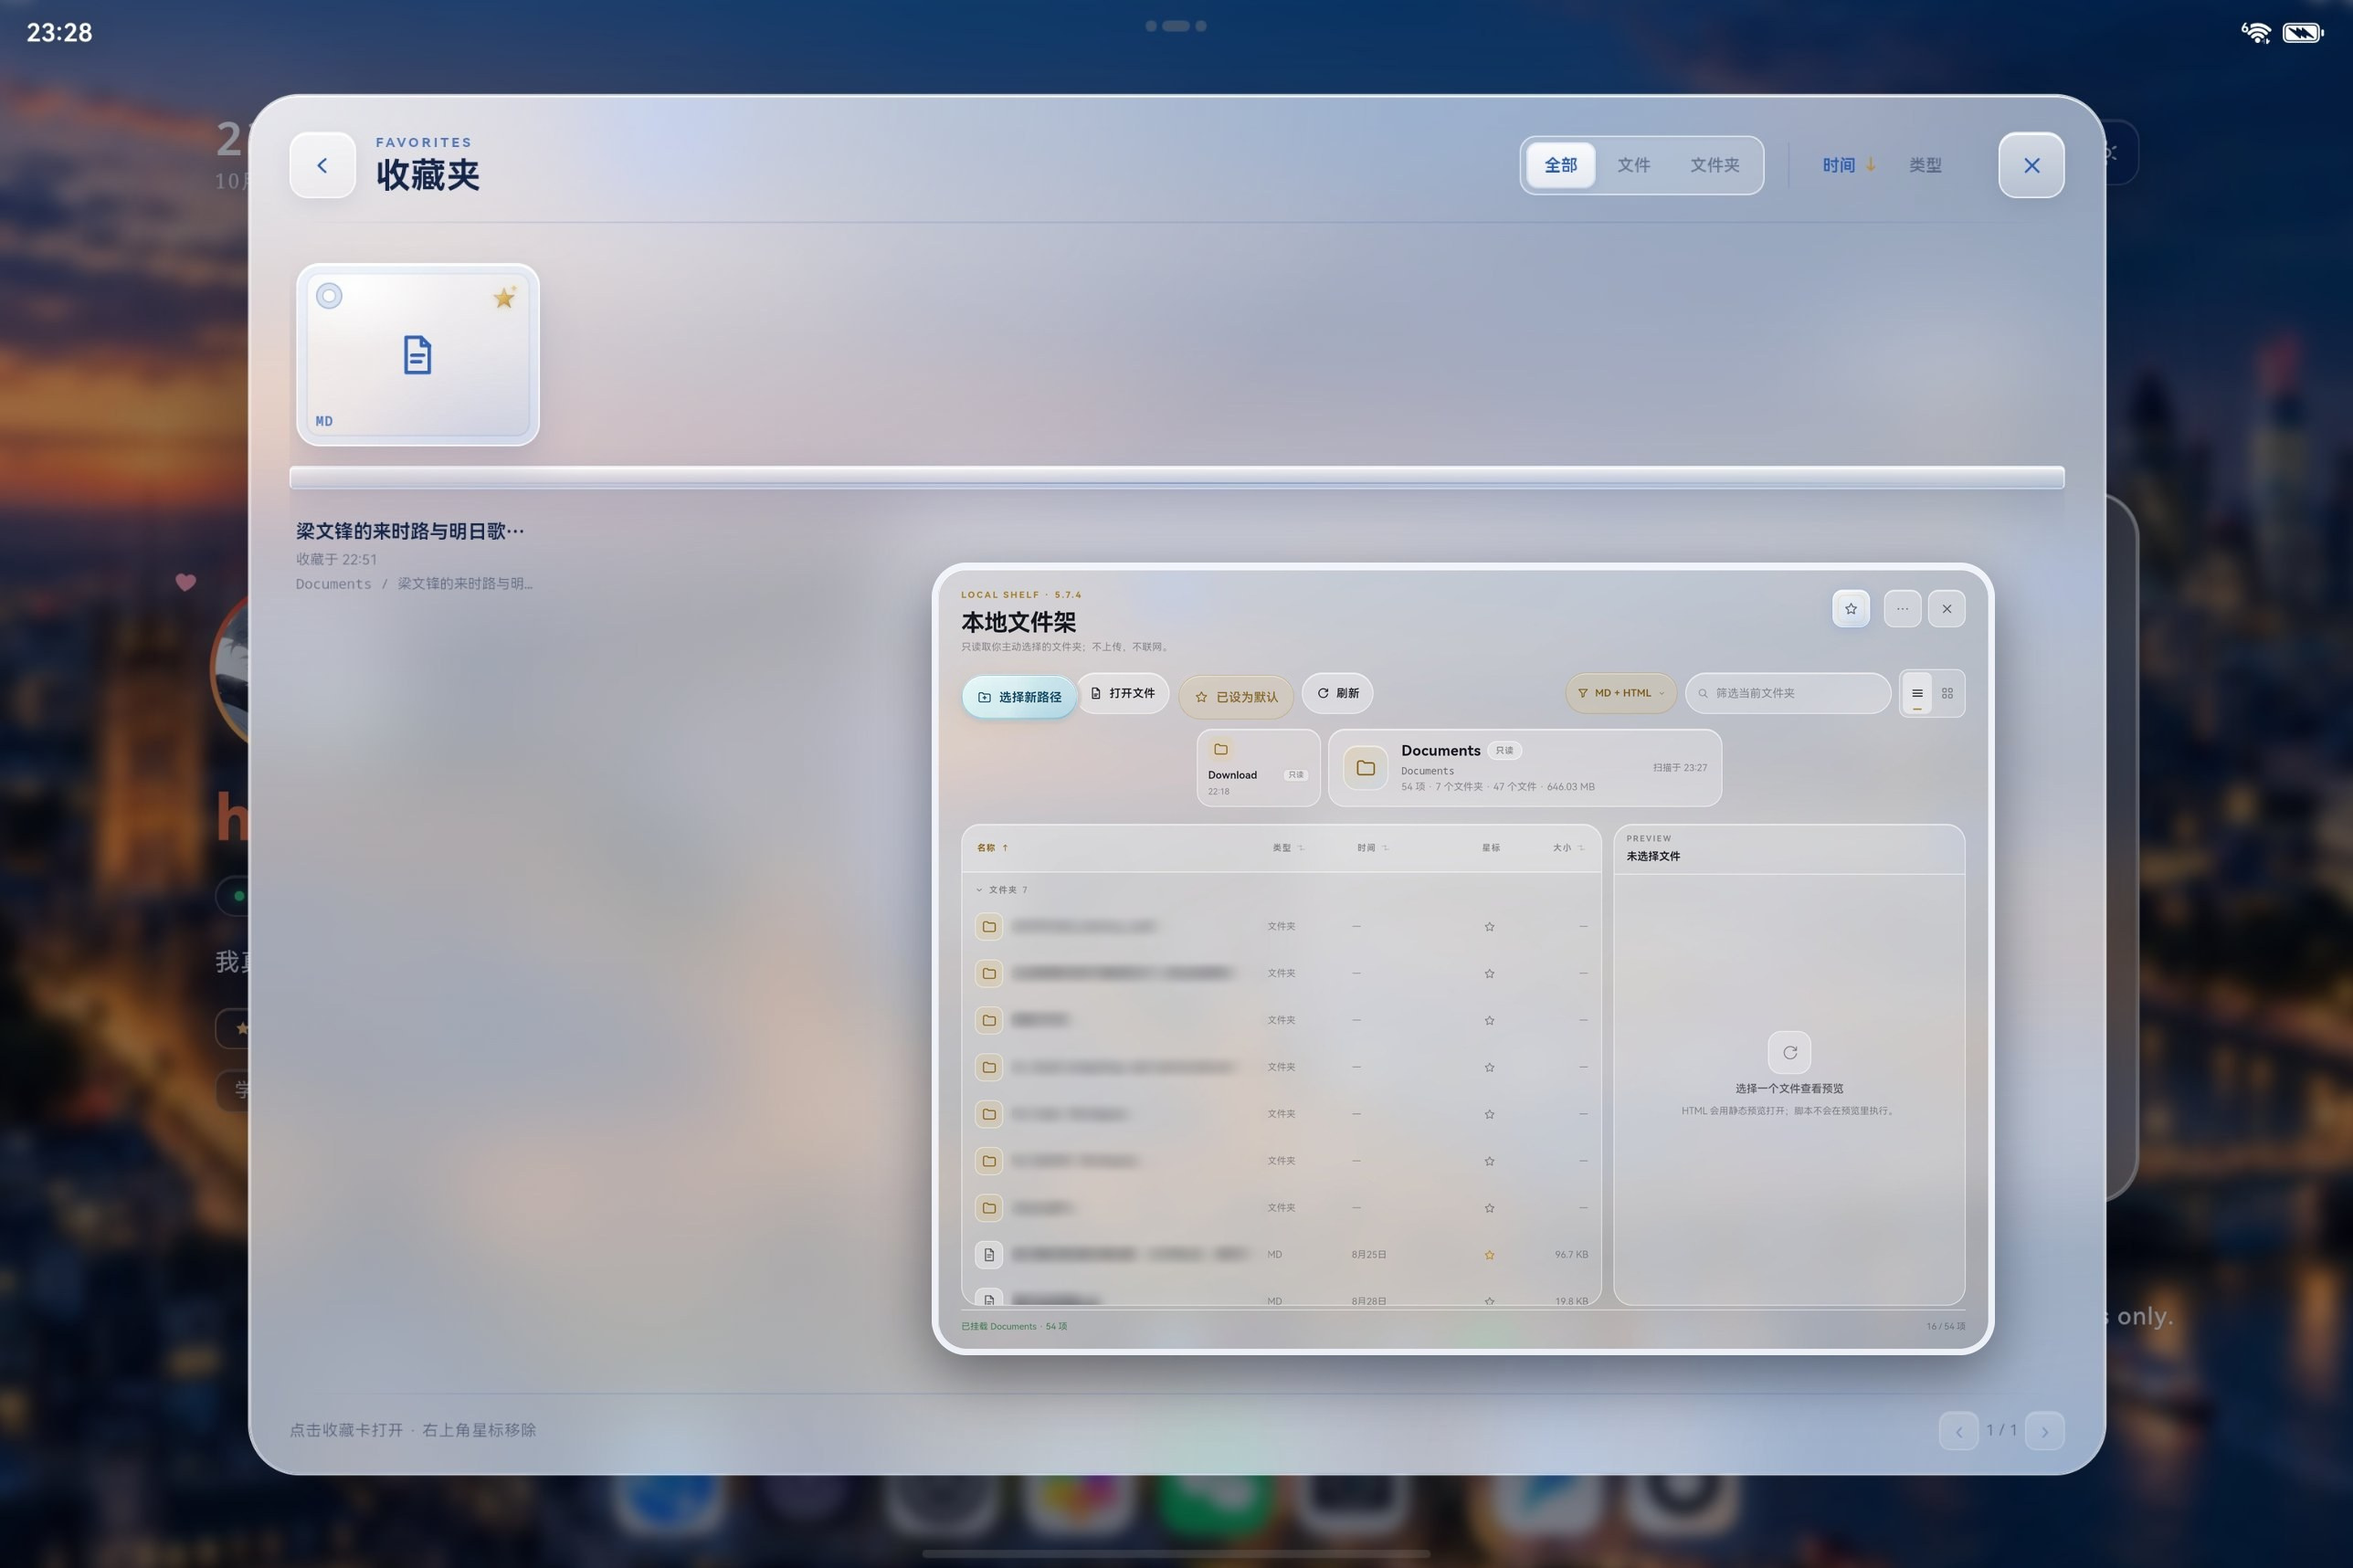
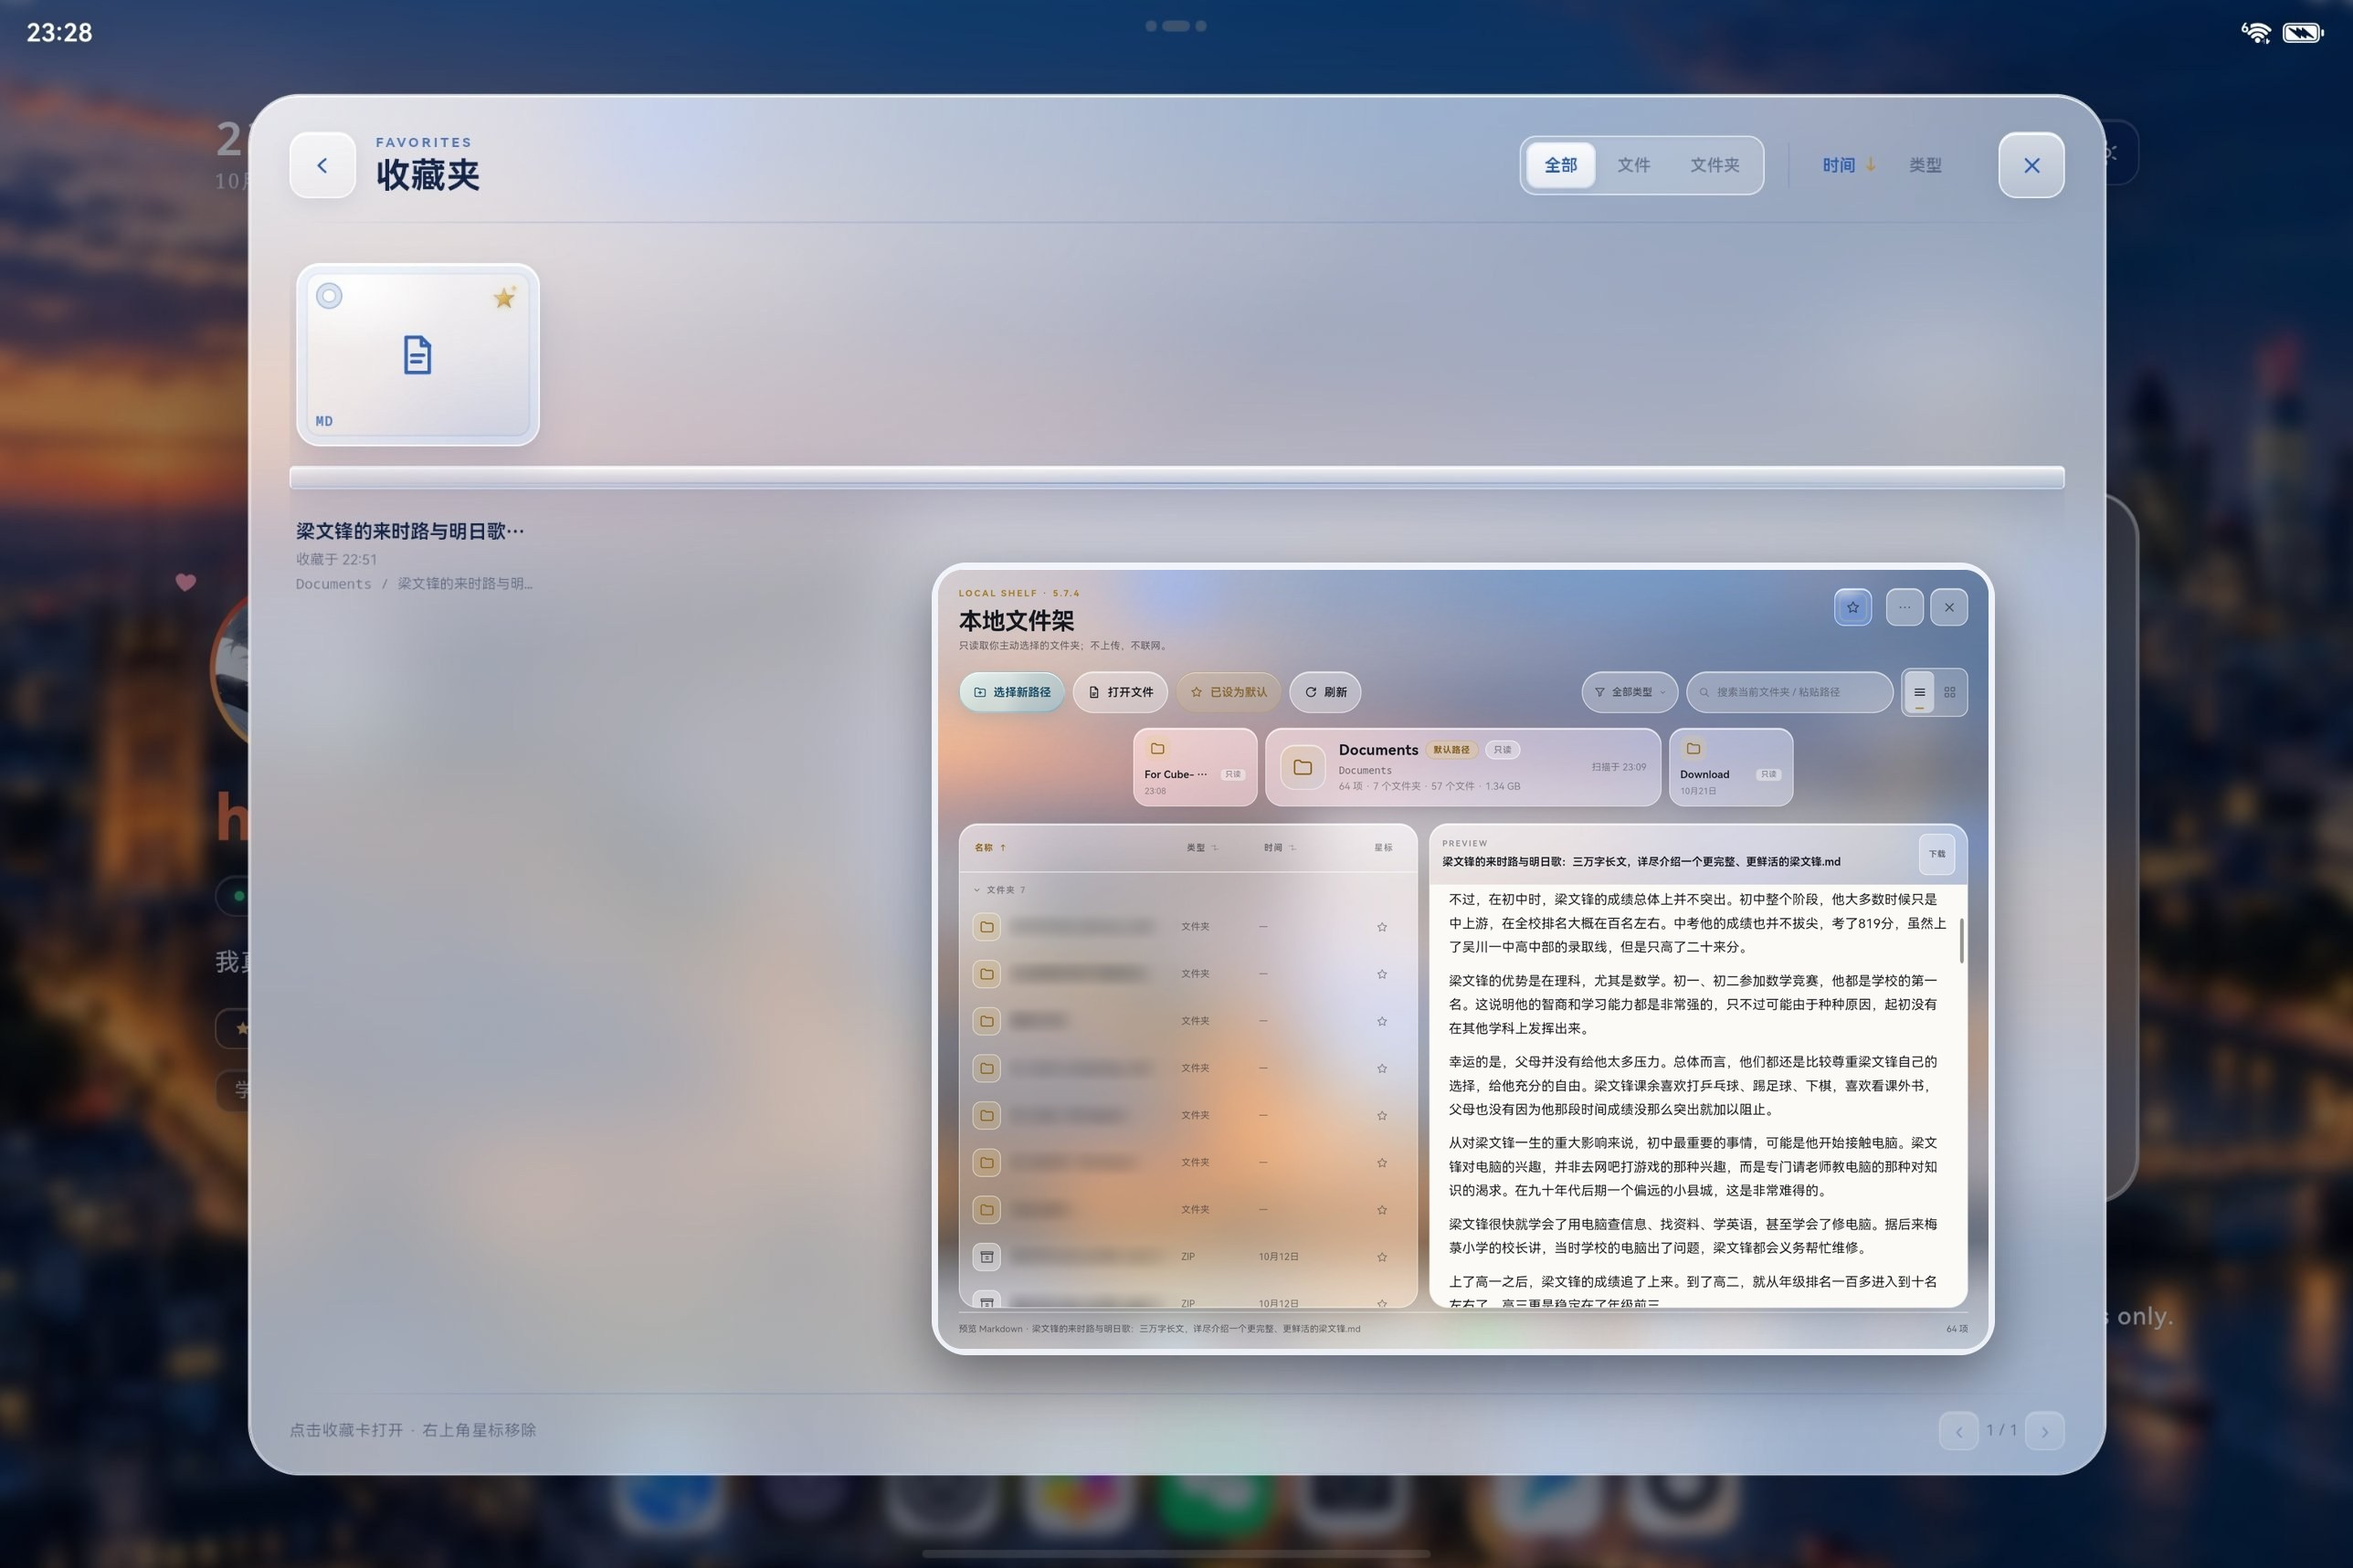
Showcase: put the 6.0.3 shelf in the favourites still's inset
The inset at the lower right of the favourites still is now the
author's MatePad capture of the 6.0.3 shelf: the glass card with
Documents mounted and a long Markdown piece in the preview. The card
is cropped 6 px inside its rim and scaled into the same white frame,
corners flush; the two buttons patched in for 5.9.7 go with the old
capture. The list's file names are blurred row by row; the preview
and the status line are left as captured. The rest of the still is
unchanged, and both READMEs' alt text follows.

Changed region(s): [[0.3727, 0.3395, 0.8696, 0.8643]]

diff --git a/README.en.md b/README.en.md
@@ -152,7 +152,7 @@ A day begins on a quiet surface. It holds only what you use every day, each thin
 - **Main card.** Search with four engines (one of them a custom template); shortcuts in three forms — automatic, framed, or an initial tile; direct entries to bookmarks, downloads, saved pages, tabs, search settings, user scripts and settings. In the lower right, a one-line note: long-press to rewrite it, archived to the second.
 - **Focus mode.** Fold both sections and the card sinks to the visual centre; search becomes the only focus.
 
-<p align="center"><img src="showcase/media/local-shelf-card-2.jpg" alt="On the device: the starred favourites fill the still, a card of glass floating over the wallpaper with one Markdown file on a glass shelf; at its lower right, a rounded inset of the local shelf, the Documents folder mounted and filtered to MD + HTML, the file names blurred" width="81.5%"><br><sub>On the device: the demo favourites, with the local shelf inset at the lower right.</sub></p>
+<p align="center"><img src="showcase/media/local-shelf-card-2.jpg" alt="On the device: the starred favourites fill the still, a card of glass floating over the wallpaper with one Markdown file on a glass shelf; at its lower right, a rounded inset of the 6.0.3 local shelf, a card of clear liquid glass with the Documents folder mounted and a long Markdown piece open in the preview, the file names in the list blurred" width="81.5%"><br><sub>On the device: the demo favourites, with the local shelf inset at the lower right.</sub></p>
 
 **The local shelf.** New in 5.9.4, the workbench gains a shelf. Mount a local folder, and the browser, the classic way to present a page, becomes the quickest way into your HTML and the rest; HTML, Markdown, PDF, images and text also preview in place, and Markdown is set by a renderer of its own, headings, tables, task lists and code blocks each in their place.
 

diff --git a/README.md b/README.md
@@ -148,7 +148,7 @@
 - **主卡片。** 搜索框与四个搜索引擎（其中一个是自定义模板）；快捷方式有自动、装框、首字母牌三种形态；直达收着书签、下载、我的网页、标签后台、搜索设置、用户脚本与设置。右下角一行日志，长按改写，按秒留档。
 - **专注态。** 两段都折叠时，卡片沉到视觉中心略偏下的位置，搜索成为唯一的焦点。
 
-<p align="center"><img src="showcase/media/local-shelf-card-2.jpg" alt="实机截图：底图为星标收藏夹，收藏卡悬浮在壁纸之上，一份 Markdown 立在玻璃书架上；右下方嵌着一张圆角小图，是本地文件架，挂载着 Documents 文件夹，按 MD + HTML 筛选，文件名已模糊处理" width="81.5%"><br><sub>实机截图：demo星标书架，右下内嵌图为本地文件架。</sub></p>
+<p align="center"><img src="showcase/media/local-shelf-card-2.jpg" alt="实机截图：底图为星标收藏夹，收藏卡悬浮在壁纸之上，一份 Markdown 立在玻璃书架上；右下方嵌着一张圆角小图，是 6.0.3 的本地文件架：清透液态玻璃的卡片，挂载着 Documents 文件夹，右栏预览一篇 Markdown 长文，左栏文件名已模糊处理" width="81.5%"><br><sub>实机截图：demo星标书架，右下内嵌图为本地文件架。</sub></p>
 
 **本地文件架。** 5.9.4 新增feature，工作台多了一面书架。挂载一个本地文件夹，是快捷调用浏览器这一传统呈现工具对html等文件的绝佳入口，同时也支持对HTML、Markdown、PDF、图片与文本实时预览；对Markdown文件专设了内置的渲染器排版，标题、表格、任务列表与代码块各得其所。
 
